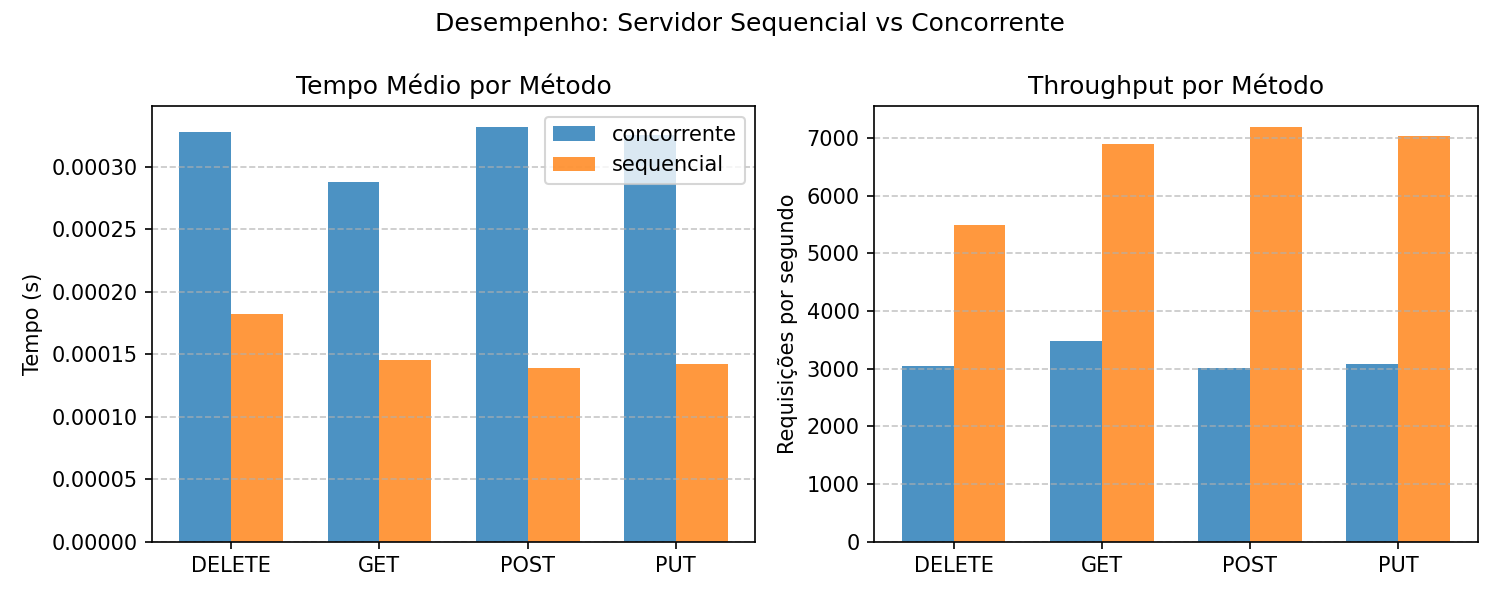
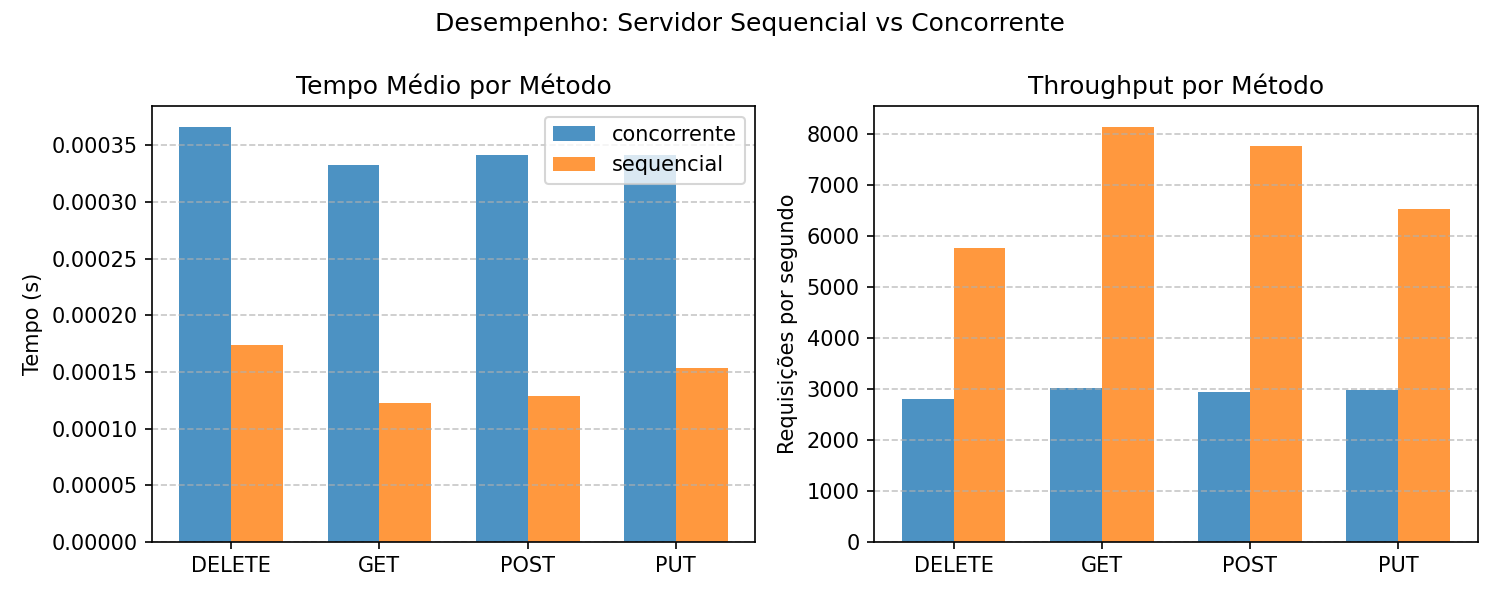
alteração de forma de lidar com servidor concorrente

diff --git a/redes2/metrics.py b/redes2/metrics.py
@@ -4,6 +4,8 @@ import socket
 import statistics
 import sys
 import time
+import threading
+import subprocess
 
 # ==================================================
 # CONFIGURAÇÕES
@@ -36,7 +38,7 @@ print(f"[INFO] X-Custom-ID gerado: {CUSTOM_ID}\n")
 
 
 # ==================================================
-# FUNÇÃO DE REQUISIÇÃO
+# FUNÇÃO DE REQUISIÇÃO (mantida para compatibilidade)
 # ==================================================
 def medir_tempo_resposta(method):
     """Envia requisição HTTP e mede o tempo de resposta"""
@@ -44,13 +46,12 @@ def medir_tempo_resposta(method):
     if method in ["POST", "PUT"]:
         corpo = '{"mensagem":"teste"}'
 
-    # ✅ Inclui X-Custom-ID na requisição
     request = (
         f"{method} / HTTP/1.1\r\n"
         f"Host: {SERVER_IP}\r\n"
         "User-Agent: BenchClient/1.0\r\n"
         "Accept: */*\r\n"
-        f"X-Custom-ID: {CUSTOM_ID}\r\n"  # ✅ ADICIONADO
+        f"X-Custom-ID: {CUSTOM_ID}\r\n"
         "Connection: close\r\n"
     )
     
@@ -66,13 +67,12 @@ def medir_tempo_resposta(method):
     inicio = time.time()
     try:
         with socket.socket(socket.AF_INET, socket.SOCK_STREAM) as s:
-            s.settimeout(5)  # Timeout de 5 segundos
+            s.settimeout(5)
             s.connect((SERVER_IP, PORT))
             s.sendall(request.encode())
             
             response = s.recv(4096).decode()
             
-            # Verifica se houve erro de autenticação
             if "401" in response.split("\r\n")[0]:
                 print(f"   ⚠  ERRO: Autenticação falhou!")
                 return None
@@ -86,44 +86,139 @@ def medir_tempo_resposta(method):
 
 
 # ==================================================
-# EXECUÇÃO DOS TESTES
+# TESTES PARA SERVIDOR SEQUENCIAL
 # ==================================================
-print(f"[TESTES] Servidor {TIPO_SERVIDOR.upper()} ({SERVER_IP})")
-print(f"[TESTES] {NUM_TESTES} execuções por método\n")
-print("=" * 60)
-
-all_results = []
-
-for method in METODOS:
-    tempos = []
-    print(f"\n👉 Método {method}:")
+def testar_servidor_sequencial():
+    """Testa servidor sequencial com requisições uma por vez"""
+    print(f"[TESTES] Servidor SEQUENCIAL ({SERVER_IP})")
+    print(f"[TESTES] {NUM_TESTES} execuções por método\n")
+    print("=" * 60)
     
-    for i in range(NUM_TESTES):
-        t = medir_tempo_resposta(method)
+    all_results = []
+    
+    for method in METODOS:
+        tempos = []
+        print(f"\n👉 Método {method}:")
         
-        if t is None:
-            print(f"   ❌ Teste {i+1}: FALHOU")
-            continue
+        for i in range(NUM_TESTES):
+            t = medir_tempo_resposta(method)
             
-        tempos.append(t)
-        print(f"   ✓ Teste {i+1}: {t:.5f} segundos")
+            if t is None:
+                print(f"   ❌ Teste {i+1}: FALHOU")
+                continue
+                
+            tempos.append(t)
+            print(f"   ✓ Teste {i+1}: {t:.5f} segundos")
+        
+        if not tempos:
+            print(f"   ⚠  Nenhum teste bem-sucedido para {method}")
+            continue
+        
+        # Calcula estatísticas
+        media = statistics.mean(tempos)
+        desvio = statistics.stdev(tempos) if len(tempos) > 1 else 0.0
+        throughput = len(tempos) / sum(tempos)
+        
+        print(f"\n📊 Estatísticas {method}:")
+        print(f"   • Média: {media:.5f}s")
+        print(f"   • Desvio: {desvio:.5f}s")
+        print(f"   • Throughput: {throughput:.2f} req/s")
+        print(f"   • Testes válidos: {len(tempos)}/{NUM_TESTES}")
+        
+        all_results.append((TIPO_SERVIDOR, method, media, desvio, throughput))
     
-    if not tempos:
-        print(f"   ⚠  Nenhum teste bem-sucedido para {method}")
-        continue
+    return all_results
+
+
+# ==================================================
+# TESTES PARA SERVIDOR CONCORRENTE
+# ==================================================
+def testar_servidor_concorrente():
+    """Testa servidor concorrente com requisições simultâneas"""
+    print(f"[TESTES] Servidor CONCORRENTE ({SERVER_IP})")
+    print(f"[TESTES] Testando com carga concorrente\n")
+    print("=" * 60)
     
-    # Calcula estatísticas
-    media = statistics.mean(tempos)
-    desvio = statistics.stdev(tempos) if len(tempos) > 1 else 0.0
-    throughput = len(tempos) / sum(tempos)
+    all_results = []
+    NUM_THREADS_CONCURRENT = 10  # Número de requisições simultâneas
     
-    print(f"\n📊 Estatísticas {method}:")
-    print(f"   • Média: {media:.5f}s")
-    print(f"   • Desvio: {desvio:.5f}s")
-    print(f"   • Throughput: {throughput:.2f} req/s")
-    print(f"   • Testes válidos: {len(tempos)}/{NUM_TESTES}")
+    for method in METODOS:
+        print(f"\n👉 Método {method} (modo concorrente):")
+        
+        tempos_totais = []
+        throughputs = []
+        
+        # Executa NUM_TESTES vezes o teste de concorrência
+        for teste in range(NUM_TESTES):
+            tempos = []
+            lock = threading.Lock()
+            
+            def fazer_requisicao(thread_id):
+                t = medir_tempo_resposta(method)
+                if t is not None:
+                    with lock:
+                        tempos.append(t)
+            
+            # Cria threads
+            threads = []
+            for i in range(NUM_THREADS_CONCURRENT):
+                t = threading.Thread(target=fazer_requisicao, args=(i+1,))
+                threads.append(t)
+            
+            # Inicia todas ao mesmo tempo
+            inicio_total = time.time()
+            for t in threads:
+                t.start()
+            
+            # Aguarda todas finalizarem
+            for t in threads:
+                t.join()
+            
+            fim_total = time.time()
+            tempo_total = fim_total - inicio_total
+            
+            if tempos:
+                throughput = len(tempos) / tempo_total
+                tempos_totais.append(tempo_total)
+                throughputs.append(throughput)
+                print(f"   ✓ Teste {teste+1}: {len(tempos)}/{NUM_THREADS_CONCURRENT} req em {tempo_total:.5f}s | Throughput: {throughput:.2f} req/s")
+            else:
+                print(f"   ❌ Teste {teste+1}: FALHOU")
+        
+        if not tempos_totais:
+            print(f"   ⚠  Nenhum teste bem-sucedido para {method}")
+            continue
+        
+        # Calcula estatísticas gerais
+        media_tempo = statistics.mean(tempos_totais)
+        desvio_tempo = statistics.stdev(tempos_totais) if len(tempos_totais) > 1 else 0.0
+        throughput_medio = statistics.mean(throughputs)
+        
+        print(f"\n📊 Estatísticas {method} (concorrente):")
+        print(f"   • Tempo médio total: {media_tempo:.5f}s")
+        print(f"   • Desvio padrão: {desvio_tempo:.5f}s")
+        print(f"   • Throughput médio: {throughput_medio:.2f} req/s")
+        print(f"   • Testes válidos: {len(tempos_totais)}/{NUM_TESTES}")
+        
+        # Salva resultado (usa tempo médio por requisição)
+        tempo_medio_por_req = media_tempo / NUM_THREADS_CONCURRENT
+        all_results.append((TIPO_SERVIDOR, method, tempo_medio_por_req, desvio_tempo, throughput_medio))
     
-    all_results.append((TIPO_SERVIDOR, method, media, desvio, throughput))
+    return all_results
+
+
+# ==================================================
+# EXECUÇÃO PRINCIPAL
+# ==================================================
+if TIPO_SERVIDOR == "sequencial":
+    all_results = testar_servidor_sequencial()
+elif TIPO_SERVIDOR == "concorrente":
+    all_results = testar_servidor_concorrente()
+else:
+    print(f"❌ Tipo de servidor inválido: {TIPO_SERVIDOR}")
+    print("Use 'sequencial' ou 'concorrente'")
+    sys.exit(1)
+
 
 # ==================================================
 # SALVA RESULTADOS NO CSV

diff --git a/redes2/client_concurrent.py b/redes2/client_concurrent.py
@@ -1,0 +1,162 @@
+import socket
+import sys
+import hashlib
+import threading
+import time
+
+# =============================
+# CONFIGURAÇÕES
+# =============================
+SERVER_IP = "54.99.0.10"  # IP do container servidor
+PORT = 8080
+
+MATRICULA = "20219015499"
+NOME = "Alisson Rodrigo"
+
+# Número de requisições simultâneas
+NUM_THREADS = int(sys.argv[1]) if len(sys.argv) > 1 else 5
+METHOD = sys.argv[2].upper() if len(sys.argv) > 2 else "GET"
+
+
+def gerar_custom_id(matricula, nome):
+    """Gera o hash MD5 da matrícula e nome"""
+    texto = f"{matricula} {nome}"
+    return hashlib.md5(texto.encode()).hexdigest()
+
+
+CUSTOM_ID = gerar_custom_id(MATRICULA, NOME)
+
+# Estatísticas compartilhadas
+resultados = []
+resultado_lock = threading.Lock()
+
+
+def enviar_requisicao(thread_id):
+    """Envia uma requisição HTTP ao servidor"""
+    try:
+        # Corpo da requisição
+        if METHOD in ["POST", "PUT"]:
+            body = f'{{"mensagem": "Thread {thread_id} - Teste {METHOD}"}}'
+        else:
+            body = ""
+
+        # Monta requisição HTTP
+        request = (
+            f"{METHOD} / HTTP/1.1\r\n"
+            f"Host: servidor_http\r\n"
+            f"User-Agent: ConcurrentClient/1.0 Thread-{thread_id}\r\n"
+            "Accept: */*\r\n"
+            f"X-Custom-ID: {CUSTOM_ID}\r\n"
+            "Connection: close\r\n"
+        )
+
+        if body:
+            request += f"Content-Length: {len(body)}\r\n"
+            request += "Content-Type: application/json\r\n"
+
+        request += "\r\n"
+        
+        if body:
+            request += body
+
+        # Envia requisição e mede tempo
+        inicio = time.time()
+        
+        with socket.socket(socket.AF_INET, socket.SOCK_STREAM) as s:
+            s.settimeout(5)
+            s.connect((SERVER_IP, PORT))
+            s.sendall(request.encode())
+            
+            response = s.recv(4096).decode()
+            
+        fim = time.time()
+        tempo = fim - inicio
+        
+        # Verifica status
+        status_line = response.split('\r\n')[0]
+        status = "✓ OK" if "200" in status_line else "✗ ERRO"
+        
+        print(f"[Thread-{thread_id:02d}] {status} | Tempo: {tempo:.4f}s | Status: {status_line}")
+        
+        # Armazena resultado de forma thread-safe
+        with resultado_lock:
+            resultados.append({
+                'thread_id': thread_id,
+                'tempo': tempo,
+                'sucesso': "200" in status_line
+            })
+            
+    except Exception as e:
+        print(f"[Thread-{thread_id:02d}] ✗ ERRO: {e}")
+        with resultado_lock:
+            resultados.append({
+                'thread_id': thread_id,
+                'tempo': None,
+                'sucesso': False
+            })
+
+
+# =============================
+# TESTE DE CARGA CONCORRENTE
+# =============================
+print("=" * 70)
+print(f"  TESTE DE CONCORRÊNCIA - Servidor {SERVER_IP}:{PORT}")
+print("=" * 70)
+print(f"  X-Custom-ID: {CUSTOM_ID}")
+print(f"  Método: {METHOD}")
+print(f"  Threads simultâneas: {NUM_THREADS}")
+print("=" * 70)
+print()
+
+inicio_total = time.time()
+
+# Cria e inicia threads
+threads = []
+for i in range(NUM_THREADS):
+    t = threading.Thread(target=enviar_requisicao, args=(i+1,))
+    threads.append(t)
+
+print(f"🚀 Enviando {NUM_THREADS} requisições simultâneas...\n")
+
+# Inicia todas as threads ao mesmo tempo
+for t in threads:
+    t.start()
+
+# Aguarda todas finalizarem
+for t in threads:
+    t.join()
+
+fim_total = time.time()
+tempo_total = fim_total - inicio_total
+
+# =============================
+# ESTATÍSTICAS
+# =============================
+print()
+print("=" * 70)
+print("  ESTATÍSTICAS")
+print("=" * 70)
+
+sucessos = sum(1 for r in resultados if r['sucesso'])
+falhas = len(resultados) - sucessos
+
+tempos_validos = [r['tempo'] for r in resultados if r['tempo'] is not None]
+
+if tempos_validos:
+    tempo_medio = sum(tempos_validos) / len(tempos_validos)
+    tempo_min = min(tempos_validos)
+    tempo_max = max(tempos_validos)
+    throughput = NUM_THREADS / tempo_total
+    
+    print(f"  Total de requisições: {NUM_THREADS}")
+    print(f"  Sucessos: {sucessos} ({sucessos/NUM_THREADS*100:.1f}%)")
+    print(f"  Falhas: {falhas} ({falhas/NUM_THREADS*100:.1f}%)")
+    print(f"  Tempo total: {tempo_total:.4f}s")
+    print(f"  Tempo médio por requisição: {tempo_medio:.4f}s")
+    print(f"  Tempo mínimo: {tempo_min:.4f}s")
+    print(f"  Tempo máximo: {tempo_max:.4f}s")
+    print(f"  Throughput: {throughput:.2f} req/s")
+else:
+    print("  ⚠  Nenhuma requisição bem-sucedida")
+
+print("=" * 70)
